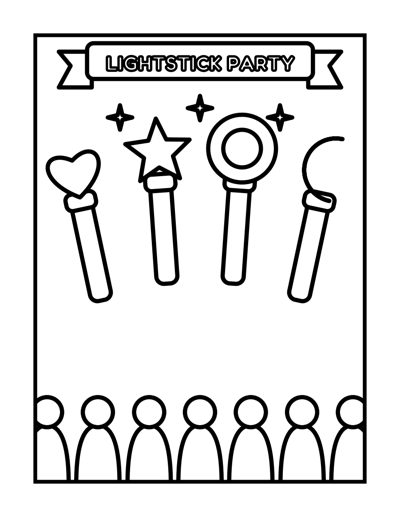
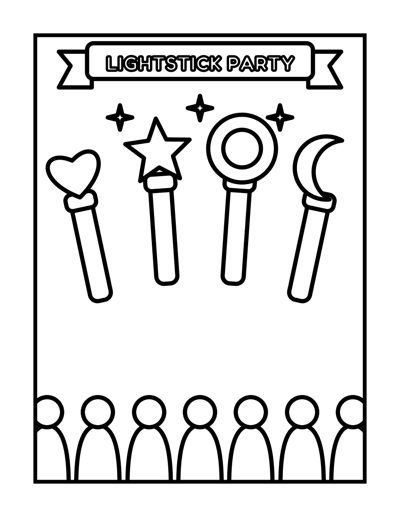
Add files via upload

Changed region(s): [[0.72, 0.2476, 0.87, 0.4023]]

diff --git a/free-coloring-pages.html b/free-coloring-pages.html
@@ -13,7 +13,7 @@
 <link rel="icon" href="qtpie.png">
 <link rel="preconnect" href="https://fonts.googleapis.com"><link rel="preconnect" href="https://fonts.gstatic.com" crossorigin>
 <link href="https://fonts.googleapis.com/css2?family=Fredoka:wght@400;500;600;700&family=Luckiest+Guy&display=swap" rel="stylesheet">
-<link rel="stylesheet" href="style.css">
+<link rel="stylesheet" href="style.css?v=2">
 <script type="application/ld+json">{"@context": "https://schema.org", "@graph": [{"@type": "BreadcrumbList", "itemListElement": [{"@type": "ListItem", "position": 1, "name": "Home", "item": "https://cutestarsstudio.github.io/"}, {"@type": "ListItem", "position": 2, "name": "Free coloring pages", "item": "https://cutestarsstudio.github.io/free-coloring-pages.html"}]}, {"@type": "CollectionPage", "name": "Free printable coloring pages for kids", "url": "https://cutestarsstudio.github.io/free-coloring-pages.html", "hasPart": [{"@type": "ImageObject", "name": "Snowman coloring page", "contentUrl": "https://cutestarsstudio.github.io/snowman-coloring-page.jpg", "url": "https://cutestarsstudio.github.io/snowman-coloring-page.html"}, {"@type": "ImageObject", "name": "Santa Claus coloring page", "contentUrl": "https://cutestarsstudio.github.io/santa-claus-coloring-page.jpg", "url": "https://cutestarsstudio.github.io/santa-claus-coloring-page.html"}, {"@type": "ImageObject", "name": "Reindeer coloring page", "contentUrl": "https://cutestarsstudio.github.io/reindeer-coloring-page.jpg", "url": "https://cutestarsstudio.github.io/reindeer-coloring-page.html"}, {"@type": "ImageObject", "name": "Gingerbread House coloring page", "contentUrl": "https://cutestarsstudio.github.io/gingerbread-house-coloring-page.jpg", "url": "https://cutestarsstudio.github.io/gingerbread-house-coloring-page.html"}, {"@type": "ImageObject", "name": "Christmas Teddy Bear coloring page", "contentUrl": "https://cutestarsstudio.github.io/teddy-bear-coloring-page.jpg", "url": "https://cutestarsstudio.github.io/teddy-bear-coloring-page.html"}, {"@type": "ImageObject", "name": "Snow Globe coloring page", "contentUrl": "https://cutestarsstudio.github.io/snow-globe-coloring-page.jpg", "url": "https://cutestarsstudio.github.io/snow-globe-coloring-page.html"}, {"@type": "ImageObject", "name": "Kawaii Strawberry coloring page", "contentUrl": "https://cutestarsstudio.github.io/kawaii-strawberry-coloring-page.jpg", "url": "https://cutestarsstudio.github.io/kawaii-strawberry-coloring-page.html"}, {"@type": "ImageObject", "name": "Kawaii Bubble Tea coloring page", "contentUrl": "https://cutestarsstudio.github.io/kawaii-bubble-tea-coloring-page.jpg", "url": "https://cutestarsstudio.github.io/kawaii-bubble-tea-coloring-page.html"}, {"@type": "ImageObject", "name": "Kawaii Panda coloring page", "contentUrl": "https://cutestarsstudio.github.io/kawaii-panda-coloring-page.jpg", "url": "https://cutestarsstudio.github.io/kawaii-panda-coloring-page.html"}, {"@type": "ImageObject", "name": "Kawaii Axolotl coloring page", "contentUrl": "https://cutestarsstudio.github.io/kawaii-axolotl-coloring-page.jpg", "url": "https://cutestarsstudio.github.io/kawaii-axolotl-coloring-page.html"}, {"@type": "ImageObject", "name": "Kawaii Unicorn coloring page", "contentUrl": "https://cutestarsstudio.github.io/kawaii-unicorn-coloring-page.jpg", "url": "https://cutestarsstudio.github.io/kawaii-unicorn-coloring-page.html"}, {"@type": "ImageObject", "name": "K-Pop Star coloring page", "contentUrl": "https://cutestarsstudio.github.io/k-pop-star-coloring-page.jpg", "url": "https://cutestarsstudio.github.io/k-pop-star-coloring-page.html"}, {"@type": "ImageObject", "name": "K-Pop Finger Hearts coloring page", "contentUrl": "https://cutestarsstudio.github.io/k-pop-finger-hearts-coloring-page.jpg", "url": "https://cutestarsstudio.github.io/k-pop-finger-hearts-coloring-page.html"}, {"@type": "ImageObject", "name": "K-Pop Lightstick Party coloring page", "contentUrl": "https://cutestarsstudio.github.io/k-pop-lightstick-coloring-page.jpg", "url": "https://cutestarsstudio.github.io/k-pop-lightstick-coloring-page.html"}, {"@type": "ImageObject", "name": "Disco Star coloring page", "contentUrl": "https://cutestarsstudio.github.io/disco-coloring-page.jpg", "url": "https://cutestarsstudio.github.io/disco-coloring-page.html"}, {"@type": "ImageObject", "name": "Glam Rock Star coloring page", "contentUrl": "https://cutestarsstudio.github.io/glam-rock-coloring-page.jpg", "url": "https://cutestarsstudio.github.io/glam-rock-coloring-page.html"}, {"@type": "ImageObject", "name": "The Beanstalk coloring page", "contentUrl": "https://cutestarsstudio.github.io/beanstalk-coloring-page.jpg", "url": "https://cutestarsstudio.github.io/beanstalk-coloring-page.html"}, {"@type": "ImageObject", "name": "Magic Beans coloring page", "contentUrl": "https://cutestarsstudio.github.io/magic-beans-coloring-page.jpg", "url": "https://cutestarsstudio.github.io/magic-beans-coloring-page.html"}, {"@type": "ImageObject", "name": "The Three Little Pigs coloring page", "contentUrl": "https://cutestarsstudio.github.io/three-little-pigs-coloring-page.jpg", "url": "https://cutestarsstudio.github.io/three-little-pigs-coloring-page.html"}, {"@type": "ImageObject", "name": "The Yellow Brick Road coloring page", "contentUrl": "https://cutestarsstudio.github.io/wizard-of-oz-yellow-brick-road-coloring-page.jpg", "url": "https://cutestarsstudio.github.io/wizard-of-oz-yellow-brick-road-coloring-page.html"}, {"@type": "ImageObject", "name": "The Scarecrow coloring page", "contentUrl": "https://cutestarsstudio.github.io/wizard-of-oz-scarecrow-coloring-page.jpg", "url": "https://cutestarsstudio.github.io/wizard-of-oz-scarecrow-coloring-page.html"}]}]}</script>
 </head>
 <body>

diff --git a/christmas-countdown-coloring-book.html b/christmas-countdown-coloring-book.html
@@ -13,7 +13,7 @@
 <link rel="icon" href="qtpie.png">
 <link rel="preconnect" href="https://fonts.googleapis.com"><link rel="preconnect" href="https://fonts.gstatic.com" crossorigin>
 <link href="https://fonts.googleapis.com/css2?family=Fredoka:wght@400;500;600;700&family=Luckiest+Guy&display=swap" rel="stylesheet">
-<link rel="stylesheet" href="style.css">
+<link rel="stylesheet" href="style.css?v=2">
 <script type="application/ld+json">{"@context": "https://schema.org", "@graph": [{"@type": "BreadcrumbList", "itemListElement": [{"@type": "ListItem", "position": 1, "name": "Home", "item": "https://cutestarsstudio.github.io/"}, {"@type": "ListItem", "position": 2, "name": "Christmas Countdown", "item": "https://cutestarsstudio.github.io/christmas-countdown-coloring-book.html"}]}, {"@type": "Book", "name": "Cute Stars Christmas Countdown Coloring Book", "author": {"@type": "Organization", "name": "Cute Stars Studio"}, "bookFormat": "https://schema.org/Paperback", "image": "https://cutestarsstudio.github.io/christmas.jpg", "description": "A cute and cozy Christmas advent coloring book for kids ages 4-8: 24 bold and easy pages, one for each day of December. Santa, reindeer, snowmen and more.", "inLanguage": "en", "numberOfPages": 24, "audience": {"@type": "PeopleAudience", "suggestedMinAge": 4, "suggestedMaxAge": 8}, "sameAs": ["https://www.amazon.com/dp/B0HRKXCGN3", "https://www.amazon.co.uk/dp/B0HRKXCGN3", "https://www.amazon.de/dp/B0HRKXCGN3"], "url": "https://cutestarsstudio.github.io/christmas-countdown-coloring-book.html", "isbn": "9798142318473"}]}</script>
 </head>
 <body>

diff --git a/pop-icons-coloring-book.html b/pop-icons-coloring-book.html
@@ -13,7 +13,7 @@
 <link rel="icon" href="qtpie.png">
 <link rel="preconnect" href="https://fonts.googleapis.com"><link rel="preconnect" href="https://fonts.gstatic.com" crossorigin>
 <link href="https://fonts.googleapis.com/css2?family=Fredoka:wght@400;500;600;700&family=Luckiest+Guy&display=swap" rel="stylesheet">
-<link rel="stylesheet" href="style.css">
+<link rel="stylesheet" href="style.css?v=2">
 <script type="application/ld+json">{"@context": "https://schema.org", "@graph": [{"@type": "BreadcrumbList", "itemListElement": [{"@type": "ListItem", "position": 1, "name": "Home", "item": "https://cutestarsstudio.github.io/"}, {"@type": "ListItem", "position": 2, "name": "Pop Icons", "item": "https://cutestarsstudio.github.io/pop-icons-coloring-book.html"}]}, {"@type": "Book", "name": "Cute Stars Pop Icons Coloring Book", "author": {"@type": "Organization", "name": "Cute Stars Studio"}, "bookFormat": "https://schema.org/Paperback", "image": "https://cutestarsstudio.github.io/pop-icons.jpg", "description": "A cute coloring book of 26 pop stars from all decades: K-pop, glam rock, disco, punk, Britpop and more. Bold and easy pages for kids ages 4-8, with a fun music fact for every picture.", "inLanguage": "en", "numberOfPages": 26, "audience": {"@type": "PeopleAudience", "suggestedMinAge": 4, "suggestedMaxAge": 8}, "sameAs": ["https://www.amazon.com/dp/B0HRKVYBFM", "https://www.amazon.co.uk/dp/B0HRKVYBFM", "https://www.amazon.de/dp/B0HRKVYBFM"], "url": "https://cutestarsstudio.github.io/pop-icons-coloring-book.html"}]}</script>
 </head>
 <body>

diff --git a/wizard-of-oz-yellow-brick-road-coloring-page.html b/wizard-of-oz-yellow-brick-road-coloring-page.html
@@ -13,7 +13,7 @@
 <link rel="icon" href="qtpie.png">
 <link rel="preconnect" href="https://fonts.googleapis.com"><link rel="preconnect" href="https://fonts.gstatic.com" crossorigin>
 <link href="https://fonts.googleapis.com/css2?family=Fredoka:wght@400;500;600;700&family=Luckiest+Guy&display=swap" rel="stylesheet">
-<link rel="stylesheet" href="style.css">
+<link rel="stylesheet" href="style.css?v=2">
 <script type="application/ld+json">{"@context": "https://schema.org", "@graph": [{"@type": "BreadcrumbList", "itemListElement": [{"@type": "ListItem", "position": 1, "name": "Home", "item": "https://cutestarsstudio.github.io/"}, {"@type": "ListItem", "position": 2, "name": "Free coloring pages", "item": "https://cutestarsstudio.github.io/free-coloring-pages.html"}, {"@type": "ListItem", "position": 3, "name": "The Yellow Brick Road coloring page", "item": "https://cutestarsstudio.github.io/wizard-of-oz-yellow-brick-road-coloring-page.html"}]}, {"@type": "ImageObject", "name": "The Yellow Brick Road coloring page", "contentUrl": "https://cutestarsstudio.github.io/wizard-of-oz-yellow-brick-road-coloring-page.jpg", "description": "Dorothy and Toto follow the yellow brick road toward the Emerald City. From our Wonderful Wizard of Oz coloring storybook.", "creator": {"@type": "Organization", "name": "Cute Stars Studio"}, "copyrightNotice": "Cute Stars Studio", "acquireLicensePage": "https://cutestarsstudio.github.io/free-coloring-pages.html", "creditText": "Cute Stars Studio"}]}</script>
 </head>
 <body>

diff --git a/gingerbread-house-coloring-page.html b/gingerbread-house-coloring-page.html
@@ -13,7 +13,7 @@
 <link rel="icon" href="qtpie.png">
 <link rel="preconnect" href="https://fonts.googleapis.com"><link rel="preconnect" href="https://fonts.gstatic.com" crossorigin>
 <link href="https://fonts.googleapis.com/css2?family=Fredoka:wght@400;500;600;700&family=Luckiest+Guy&display=swap" rel="stylesheet">
-<link rel="stylesheet" href="style.css">
+<link rel="stylesheet" href="style.css?v=2">
 <script type="application/ld+json">{"@context": "https://schema.org", "@graph": [{"@type": "BreadcrumbList", "itemListElement": [{"@type": "ListItem", "position": 1, "name": "Home", "item": "https://cutestarsstudio.github.io/"}, {"@type": "ListItem", "position": 2, "name": "Free coloring pages", "item": "https://cutestarsstudio.github.io/free-coloring-pages.html"}, {"@type": "ListItem", "position": 3, "name": "Gingerbread House coloring page", "item": "https://cutestarsstudio.github.io/gingerbread-house-coloring-page.html"}]}, {"@type": "ImageObject", "name": "Gingerbread House coloring page", "contentUrl": "https://cutestarsstudio.github.io/gingerbread-house-coloring-page.jpg", "description": "A sweet gingerbread house with candy windows and two gingerbread friends standing guard. A cute Christmas baking-day coloring page.", "creator": {"@type": "Organization", "name": "Cute Stars Studio"}, "copyrightNotice": "Cute Stars Studio", "acquireLicensePage": "https://cutestarsstudio.github.io/free-coloring-pages.html", "creditText": "Cute Stars Studio"}]}</script>
 </head>
 <body>

diff --git a/three-little-pigs-coloring-page.html b/three-little-pigs-coloring-page.html
@@ -13,7 +13,7 @@
 <link rel="icon" href="qtpie.png">
 <link rel="preconnect" href="https://fonts.googleapis.com"><link rel="preconnect" href="https://fonts.gstatic.com" crossorigin>
 <link href="https://fonts.googleapis.com/css2?family=Fredoka:wght@400;500;600;700&family=Luckiest+Guy&display=swap" rel="stylesheet">
-<link rel="stylesheet" href="style.css">
+<link rel="stylesheet" href="style.css?v=2">
 <script type="application/ld+json">{"@context": "https://schema.org", "@graph": [{"@type": "BreadcrumbList", "itemListElement": [{"@type": "ListItem", "position": 1, "name": "Home", "item": "https://cutestarsstudio.github.io/"}, {"@type": "ListItem", "position": 2, "name": "Free coloring pages", "item": "https://cutestarsstudio.github.io/free-coloring-pages.html"}, {"@type": "ListItem", "position": 3, "name": "The Three Little Pigs coloring page", "item": "https://cutestarsstudio.github.io/three-little-pigs-coloring-page.html"}]}, {"@type": "ImageObject", "name": "The Three Little Pigs coloring page", "contentUrl": "https://cutestarsstudio.github.io/three-little-pigs-coloring-page.jpg", "description": "Meet the three little pigs, ready to build their houses of straw, sticks and bricks. A classic fairy tale coloring page.", "creator": {"@type": "Organization", "name": "Cute Stars Studio"}, "copyrightNotice": "Cute Stars Studio", "acquireLicensePage": "https://cutestarsstudio.github.io/free-coloring-pages.html", "creditText": "Cute Stars Studio"}]}</script>
 </head>
 <body>

diff --git a/k-pop-finger-hearts-coloring-page.html b/k-pop-finger-hearts-coloring-page.html
@@ -13,7 +13,7 @@
 <link rel="icon" href="qtpie.png">
 <link rel="preconnect" href="https://fonts.googleapis.com"><link rel="preconnect" href="https://fonts.gstatic.com" crossorigin>
 <link href="https://fonts.googleapis.com/css2?family=Fredoka:wght@400;500;600;700&family=Luckiest+Guy&display=swap" rel="stylesheet">
-<link rel="stylesheet" href="style.css">
+<link rel="stylesheet" href="style.css?v=2">
 <script type="application/ld+json">{"@context": "https://schema.org", "@graph": [{"@type": "BreadcrumbList", "itemListElement": [{"@type": "ListItem", "position": 1, "name": "Home", "item": "https://cutestarsstudio.github.io/"}, {"@type": "ListItem", "position": 2, "name": "Free coloring pages", "item": "https://cutestarsstudio.github.io/free-coloring-pages.html"}, {"@type": "ListItem", "position": 3, "name": "K-Pop Finger Hearts coloring page", "item": "https://cutestarsstudio.github.io/k-pop-finger-hearts-coloring-page.html"}]}, {"@type": "ImageObject", "name": "K-Pop Finger Hearts coloring page", "contentUrl": "https://cutestarsstudio.github.io/k-pop-finger-hearts-coloring-page.jpg", "description": "An idol making finger hearts for the fans, surrounded by floating hearts. A cute K-pop coloring page for little fans.", "creator": {"@type": "Organization", "name": "Cute Stars Studio"}, "copyrightNotice": "Cute Stars Studio", "acquireLicensePage": "https://cutestarsstudio.github.io/free-coloring-pages.html", "creditText": "Cute Stars Studio"}]}</script>
 </head>
 <body>

diff --git a/kawaii-axolotl-coloring-page.html b/kawaii-axolotl-coloring-page.html
@@ -13,7 +13,7 @@
 <link rel="icon" href="qtpie.png">
 <link rel="preconnect" href="https://fonts.googleapis.com"><link rel="preconnect" href="https://fonts.gstatic.com" crossorigin>
 <link href="https://fonts.googleapis.com/css2?family=Fredoka:wght@400;500;600;700&family=Luckiest+Guy&display=swap" rel="stylesheet">
-<link rel="stylesheet" href="style.css">
+<link rel="stylesheet" href="style.css?v=2">
 <script type="application/ld+json">{"@context": "https://schema.org", "@graph": [{"@type": "BreadcrumbList", "itemListElement": [{"@type": "ListItem", "position": 1, "name": "Home", "item": "https://cutestarsstudio.github.io/"}, {"@type": "ListItem", "position": 2, "name": "Free coloring pages", "item": "https://cutestarsstudio.github.io/free-coloring-pages.html"}, {"@type": "ListItem", "position": 3, "name": "Kawaii Axolotl coloring page", "item": "https://cutestarsstudio.github.io/kawaii-axolotl-coloring-page.html"}]}, {"@type": "ImageObject", "name": "Kawaii Axolotl coloring page", "contentUrl": "https://cutestarsstudio.github.io/kawaii-axolotl-coloring-page.jpg", "description": "A smiley kawaii axolotl with frilly gills, floating among bubbles. Pink is popular, but a rainbow axolotl looks amazing too.", "creator": {"@type": "Organization", "name": "Cute Stars Studio"}, "copyrightNotice": "Cute Stars Studio", "acquireLicensePage": "https://cutestarsstudio.github.io/free-coloring-pages.html", "creditText": "Cute Stars Studio"}]}</script>
 </head>
 <body>

diff --git a/kawaii-strawberry-coloring-page.html b/kawaii-strawberry-coloring-page.html
@@ -13,7 +13,7 @@
 <link rel="icon" href="qtpie.png">
 <link rel="preconnect" href="https://fonts.googleapis.com"><link rel="preconnect" href="https://fonts.gstatic.com" crossorigin>
 <link href="https://fonts.googleapis.com/css2?family=Fredoka:wght@400;500;600;700&family=Luckiest+Guy&display=swap" rel="stylesheet">
-<link rel="stylesheet" href="style.css">
+<link rel="stylesheet" href="style.css?v=2">
 <script type="application/ld+json">{"@context": "https://schema.org", "@graph": [{"@type": "BreadcrumbList", "itemListElement": [{"@type": "ListItem", "position": 1, "name": "Home", "item": "https://cutestarsstudio.github.io/"}, {"@type": "ListItem", "position": 2, "name": "Free coloring pages", "item": "https://cutestarsstudio.github.io/free-coloring-pages.html"}, {"@type": "ListItem", "position": 3, "name": "Kawaii Strawberry coloring page", "item": "https://cutestarsstudio.github.io/kawaii-strawberry-coloring-page.html"}]}, {"@type": "ImageObject", "name": "Kawaii Strawberry coloring page", "contentUrl": "https://cutestarsstudio.github.io/kawaii-strawberry-coloring-page.jpg", "description": "A smiling kawaii strawberry with two tiny strawberry friends, hearts and sparkles. Super cute and easy to color.", "creator": {"@type": "Organization", "name": "Cute Stars Studio"}, "copyrightNotice": "Cute Stars Studio", "acquireLicensePage": "https://cutestarsstudio.github.io/free-coloring-pages.html", "creditText": "Cute Stars Studio"}]}</script>
 </head>
 <body>

diff --git a/santa-claus-coloring-page.html b/santa-claus-coloring-page.html
@@ -13,7 +13,7 @@
 <link rel="icon" href="qtpie.png">
 <link rel="preconnect" href="https://fonts.googleapis.com"><link rel="preconnect" href="https://fonts.gstatic.com" crossorigin>
 <link href="https://fonts.googleapis.com/css2?family=Fredoka:wght@400;500;600;700&family=Luckiest+Guy&display=swap" rel="stylesheet">
-<link rel="stylesheet" href="style.css">
+<link rel="stylesheet" href="style.css?v=2">
 <script type="application/ld+json">{"@context": "https://schema.org", "@graph": [{"@type": "BreadcrumbList", "itemListElement": [{"@type": "ListItem", "position": 1, "name": "Home", "item": "https://cutestarsstudio.github.io/"}, {"@type": "ListItem", "position": 2, "name": "Free coloring pages", "item": "https://cutestarsstudio.github.io/free-coloring-pages.html"}, {"@type": "ListItem", "position": 3, "name": "Santa Claus coloring page", "item": "https://cutestarsstudio.github.io/santa-claus-coloring-page.html"}]}, {"@type": "ImageObject", "name": "Santa Claus coloring page", "contentUrl": "https://cutestarsstudio.github.io/santa-claus-coloring-page.jpg", "description": "Jolly Santa with his fluffy beard, a sack of presents and a starry Christmas tree. The Christmas Eve page from our advent coloring book.", "creator": {"@type": "Organization", "name": "Cute Stars Studio"}, "copyrightNotice": "Cute Stars Studio", "acquireLicensePage": "https://cutestarsstudio.github.io/free-coloring-pages.html", "creditText": "Cute Stars Studio"}]}</script>
 </head>
 <body>

diff --git a/teddy-bear-coloring-page.html b/teddy-bear-coloring-page.html
@@ -13,7 +13,7 @@
 <link rel="icon" href="qtpie.png">
 <link rel="preconnect" href="https://fonts.googleapis.com"><link rel="preconnect" href="https://fonts.gstatic.com" crossorigin>
 <link href="https://fonts.googleapis.com/css2?family=Fredoka:wght@400;500;600;700&family=Luckiest+Guy&display=swap" rel="stylesheet">
-<link rel="stylesheet" href="style.css">
+<link rel="stylesheet" href="style.css?v=2">
 <script type="application/ld+json">{"@context": "https://schema.org", "@graph": [{"@type": "BreadcrumbList", "itemListElement": [{"@type": "ListItem", "position": 1, "name": "Home", "item": "https://cutestarsstudio.github.io/"}, {"@type": "ListItem", "position": 2, "name": "Free coloring pages", "item": "https://cutestarsstudio.github.io/free-coloring-pages.html"}, {"@type": "ListItem", "position": 3, "name": "Christmas Teddy Bear coloring page", "item": "https://cutestarsstudio.github.io/teddy-bear-coloring-page.html"}]}, {"@type": "ImageObject", "name": "Christmas Teddy Bear coloring page", "contentUrl": "https://cutestarsstudio.github.io/teddy-bear-coloring-page.jpg", "description": "A big cuddly teddy bear holding a heart, with snowflakes falling all around. One of the coziest pages in the book.", "creator": {"@type": "Organization", "name": "Cute Stars Studio"}, "copyrightNotice": "Cute Stars Studio", "acquireLicensePage": "https://cutestarsstudio.github.io/free-coloring-pages.html", "creditText": "Cute Stars Studio"}]}</script>
 </head>
 <body>

diff --git a/k-pop-lightstick-coloring-page.html b/k-pop-lightstick-coloring-page.html
@@ -13,7 +13,7 @@
 <link rel="icon" href="qtpie.png">
 <link rel="preconnect" href="https://fonts.googleapis.com"><link rel="preconnect" href="https://fonts.gstatic.com" crossorigin>
 <link href="https://fonts.googleapis.com/css2?family=Fredoka:wght@400;500;600;700&family=Luckiest+Guy&display=swap" rel="stylesheet">
-<link rel="stylesheet" href="style.css">
+<link rel="stylesheet" href="style.css?v=2">
 <script type="application/ld+json">{"@context": "https://schema.org", "@graph": [{"@type": "BreadcrumbList", "itemListElement": [{"@type": "ListItem", "position": 1, "name": "Home", "item": "https://cutestarsstudio.github.io/"}, {"@type": "ListItem", "position": 2, "name": "Free coloring pages", "item": "https://cutestarsstudio.github.io/free-coloring-pages.html"}, {"@type": "ListItem", "position": 3, "name": "K-Pop Lightstick Party coloring page", "item": "https://cutestarsstudio.github.io/k-pop-lightstick-coloring-page.html"}]}, {"@type": "ImageObject", "name": "K-Pop Lightstick Party coloring page", "contentUrl": "https://cutestarsstudio.github.io/k-pop-lightstick-coloring-page.jpg", "description": "Glowing lightsticks waving over the crowd at a K-pop concert. Color them in your favorite colors!", "creator": {"@type": "Organization", "name": "Cute Stars Studio"}, "copyrightNotice": "Cute Stars Studio", "acquireLicensePage": "https://cutestarsstudio.github.io/free-coloring-pages.html", "creditText": "Cute Stars Studio"}]}</script>
 </head>
 <body>
